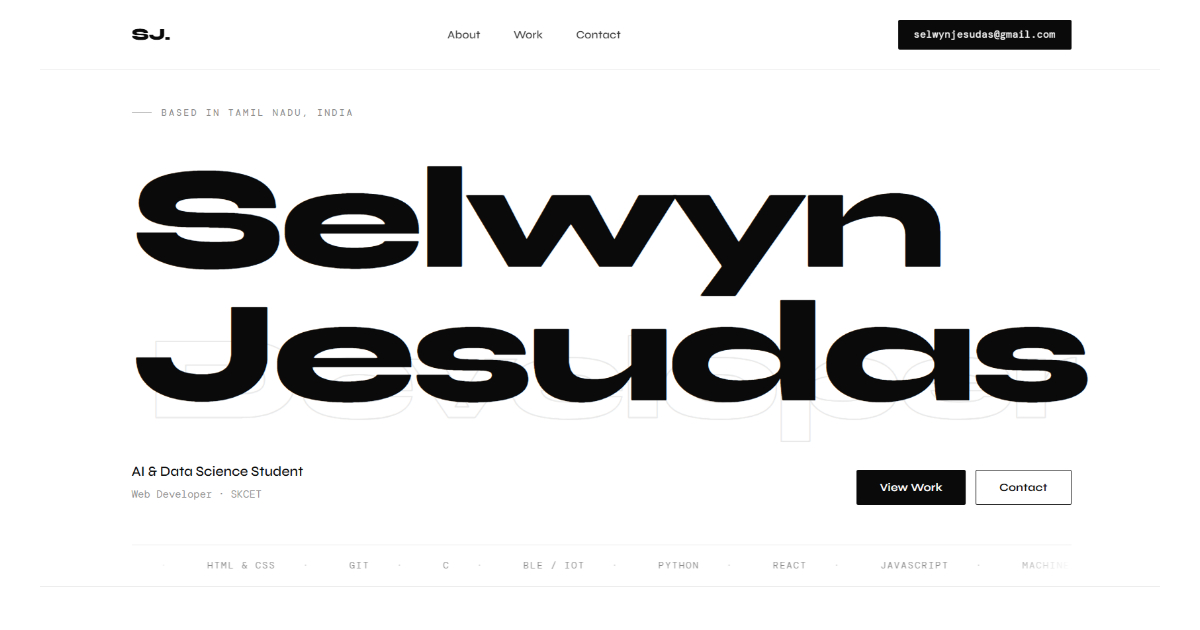
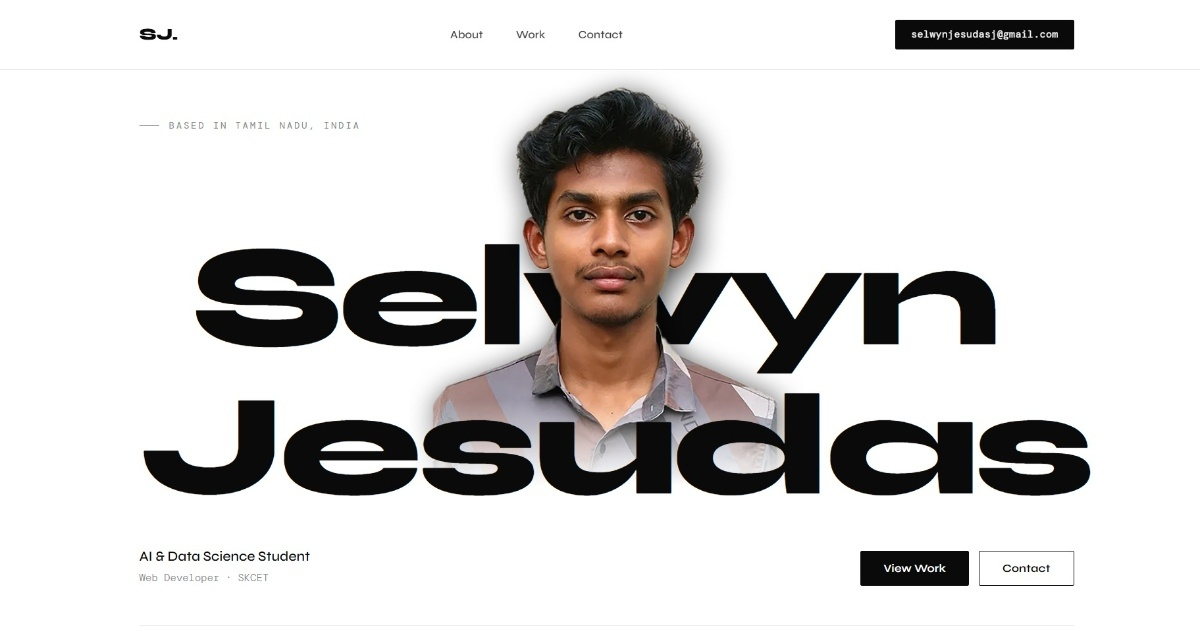
SEO changes

diff --git a/src/config/metadata.js b/src/config/metadata.js
@@ -6,59 +6,59 @@ const TWITTER_HANDLE = '@ItzSelwyn'
 
 export const METADATA = {
   home: {
-    title: 'Selwyn Jesudas — Full-Stack Developer & AI Student',
+    title: 'Selwyn Jesudas | AI & Full Stack Developer',
     description: 'AI & Data Science student at SKCET, Tamil Nadu. Building intelligent web applications, ML systems, and IoT solutions. View my projects: InsightEd, RAPID-100, MetroMind.',
     keywords: 'Selwyn Jesudas, Portfolio, Developer, Student, AI, Data Science, React, Python, SKCET, Tamil Nadu, Web Development',
     canonical: `${BASE_URL}`,
     ogUrl: `${BASE_URL}`,
-    ogTitle: 'Selwyn Jesudas — Full-Stack Developer & AI Student',
+    ogTitle: 'Selwyn Jesudas — AI & Full Stack Developer',
     ogDescription: 'AI & Data Science student at SKCET building intelligent web applications and ML systems.',
     ogImage: `${BASE_URL}/og-image.jpg`,
-    twitterTitle: 'Selwyn Jesudas — Full-Stack Developer & AI Student',
+    twitterTitle: 'Selwyn Jesudas — AI & Full Stack Developer',
     twitterDescription: 'AI & Data Science student at SKCET building intelligent web applications and ML systems.',
   },
 
   insighted: {
-    title: 'InsightEd — BLE Attendance System | Selwyn Jesudas',
+    title: 'InsightEd | Selwyn Jesudas',
     description: 'InsightEd: A Bluetooth Low Energy attendance system that automates classroom roll-call using ESP32 microcontrollers. Built with Kotlin, Arduino C++, and Firebase. SIH 2025 project.',
     keywords: 'InsightEd, BLE, Bluetooth Low Energy, ESP32, Kotlin, Firebase, Attendance System, IoT, SKCET',
     canonical: `${BASE_URL}/insighted`,
     ogUrl: `${BASE_URL}/insighted`,
     ogTitle: 'InsightEd — BLE Attendance System',
     ogDescription: 'Automated classroom attendance using Bluetooth Low Energy, ESP32, and student smartphones. 95%+ accuracy, no app install required.',
-    ogImage: `${BASE_URL}/og-image-insighted.jpg`,
+    ogImage: `${BASE_URL}/og-image.jpg`,
     twitterTitle: 'InsightEd — Smart Classroom Attendance',
     twitterDescription: 'BLE-powered attendance system with ESP32 & Firebase. SIH 2025 project.',
   },
 
   rapid100: {
-    title: 'RAPID-100 — AI Emergency Call Triage | Selwyn Jesudas',
+    title: 'RAPID-100 | Selwyn Jesudas',
     description: 'RAPID-100: An AI-powered emergency call triage system using Google Gemini API. Real-time transcription, incident classification, and dispatcher dashboards. Built with Python, FastAPI, and Twilio.',
     keywords: 'RAPID-100, Emergency Services, AI Triage, Gemini API, FastAPI, Speech-to-Text, Emergency Response, NLP',
     canonical: `${BASE_URL}/rapid-100`,
     ogUrl: `${BASE_URL}/rapid-100`,
     ogTitle: 'RAPID-100 — AI Emergency Call Triage',
     ogDescription: 'Real-time emergency call transcription and AI classification for dispatchers. Live summaries in <3s. Powered by Gemini API.',
-    ogImage: `${BASE_URL}/og-image-rapid100.jpg`,
+    ogImage: `${BASE_URL}/og-image.jpg`,
     twitterTitle: 'RAPID-100 — AI Emergency Triage',
     twitterDescription: 'Real-time call transcription & AI-powered incident classification for emergency dispatchers.',
   },
 
   metromind: {
-    title: 'MetroMind — Smart City Traffic Simulation | Selwyn Jesudas',
+    title: 'MetroMind | Selwyn Jesudas',
     description: 'MetroMind: A full-stack smart-city dashboard with live traffic simulation on real OpenStreetMap road networks. Built with React, FastAPI, Dijkstra routing, and Docker. Watch vehicles navigate and reroute in real-time.',
     keywords: 'MetroMind, Smart City, Traffic Simulation, OpenStreetMap, Dijkstra, Docker, FastAPI, React, Leaflet, OSMnx',
     canonical: `${BASE_URL}/metromind`,
     ogUrl: `${BASE_URL}/metromind`,
     ogTitle: 'MetroMind — Smart City Traffic Simulation',
     ogDescription: 'Interactive traffic simulation on real city road networks. Block roads, spawn vehicles, watch AI rerouting respond to congestion.',
-    ogImage: `${BASE_URL}/og-image-metromind.jpg`,
+    ogImage: `${BASE_URL}/og-image.jpg`,
     twitterTitle: 'MetroMind — Live Traffic Simulation',
     twitterDescription: 'Smart city dashboard with real OSM data & AI-powered traffic routing.',
   },
 
   notfound: {
-    title: '404 — Page Not Found | Selwyn Jesudas',
+    title: '404 | Selwyn Jesudas',
     description: "This page doesn't exist. Return to Selwyn Jesudas's portfolio to view projects and get in touch.",
     keywords: 'Page Not Found',
     canonical: `${BASE_URL}/404`,

diff --git a/index.html b/index.html
@@ -5,11 +5,10 @@
     <meta name="viewport" content="width=device-width, initial-scale=1.0" />
 
     <!-- Primary SEO - FALLBACK ONLY (React will update these dynamically) -->
-    <title>Selwyn Jesudas</title>
-    <meta name="description" content="Personal portfolio of Selwyn Jesudas — AI & Data Science student at SKCET, Web Developer." />
-    <meta name="keywords" content="Selwyn Jesudas, Portfolio, Developer, Student, AI, Data Science" />
+    <title>Selwyn Jesudas | AI & Full Stack Developer</title>
+    <meta name="description" content="Personal portfolio of Selwyn Jesudas — AI & Data Science student at SKCET, Full Stack Developer." />
+    <meta name="keywords" content="Selwyn Jesudas, Portfolio, Developer, Student, AI, Data Science, Full Stack" />
     <meta name="author" content="Selwyn Jesudas" />
-    <link rel="canonical" href="https://selwynjesudas.com" />
 
     <!-- Favicons: SVG prioritized, with smart fallbacks for older browsers -->
     <!-- Primary: SVG favicon (sharp on all devices, smallest file size) -->
@@ -20,28 +19,6 @@
     <link rel="icon" href="/favicon.ico" sizes="any" type="image/x-icon">
     <!-- Apple/iOS: Home screen icon (no sizes needed, iOS handles this) -->
     <link rel="apple-touch-icon" href="/apple-touch-icon.png">
-
-    <!-- Open Graph (Facebook, LinkedIn, WhatsApp previews) - FALLBACK -->
-    <meta property="og:type" content="website" />
-    <meta property="og:url" content="https://selwynjesudas.com" />
-    <meta property="og:title" content="Selwyn Jesudas" />
-    <meta property="og:description" content="Personal portfolio of Selwyn Jesudas — AI & Data Science student at SKCET, Web Developer." />
-    <meta property="og:image" content="/og-image.jpg" />
-    <meta property="og:image:width" content="1200" />
-    <meta property="og:image:height" content="630" />
-    <meta property="og:locale" content="en_IN" />
-    <meta property="og:site_name" content="Selwyn Jesudas" />
-
-    <!-- Twitter Card -->
-    <meta name="twitter:card" content="summary_large_image" />
-    <meta name="twitter:domain" content="selwynjesudas.com" />
-    <meta name="twitter:url" content="https://selwynjesudas.com" />
-    <meta name="twitter:title" content="Selwyn Jesudas" />
-    <meta name="twitter:description" content="Personal portfolio of Selwyn Jesudas — AI & Data Science student at SKCET, Web Developer." />
-    <meta name="twitter:image" content="/og-image.jpg" />
-
-    <!-- Schema.org - Dynamically generated by React -->
-    <!-- Base Website & Person schemas will be added by React -->
 
     <!-- Fonts -->
     <link rel="preconnect" href="https://fonts.googleapis.com" />

diff --git a/src/utils/schemaGenerator.js b/src/utils/schemaGenerator.js
@@ -19,7 +19,7 @@ export const generatePersonSchema = () => ({
   '@type': 'Person',
   name: 'Selwyn Jesudas',
   url: BASE_URL,
-  image: `${BASE_URL}/images/selwyn.jpg`,
+  image: `${BASE_URL}/selwyn.webp`,
   description: 'AI & Data Science student at SKCET, Full-stack Developer',
   sameAs: [
     'https://www.linkedin.com/in/selwyn-jesudas/',
@@ -27,8 +27,8 @@ export const generatePersonSchema = () => ({
     'https://www.instagram.com/itz_selwyn/',
     'https://www.facebook.com/profile.php?id=61576403366342',
   ],
-  jobTitle: 'Student / Developer',
-  worksFor: {
+  jobTitle: 'AI & Full Stack Developer',
+  alumniOf: {
     '@type': 'Organization',
     name: 'Sri Krishna College of Engineering and Technology',
   },
@@ -51,7 +51,6 @@ export const generateProjectSchema = (project) => ({
     priceCurrency: 'USD',
   },
   image: `${BASE_URL}${project.image}`,
-  datePublished: project.datePublished,
   keywords: project.keywords,
   featureList: project.features,
 })
@@ -62,8 +61,7 @@ export const generateInsightEdSchema = () =>
     description:
       'A Bluetooth Low Energy attendance system that automates classroom roll-call using ESP32 microcontrollers and students smartphones.',
     path: '/insighted',
-    image: '/og-image-insighted.jpg',
-    datePublished: '2025-01-15',
+    image: '/og-image.jpg',
     keywords: 'BLE, ESP32, Kotlin, Firebase, Attendance, IoT',
     features: [
       'Bluetooth Low Energy scanning',
@@ -80,8 +78,7 @@ export const generateRapid100Schema = () =>
     description:
       'An AI-powered emergency call triage system that transcribes calls in real time, classifies incidents by type and severity, and generates structured summaries.',
     path: '/rapid-100',
-    image: '/og-image-rapid100.jpg',
-    datePublished: '2025-02-10',
+    image: '/og-image.jpg',
     keywords: 'Emergency Services, AI, Gemini API, FastAPI, Speech-to-Text',
     features: [
       'Real-time speech-to-text transcription',
@@ -98,8 +95,7 @@ export const generateMetroMindSchema = () =>
     description:
       'A full-stack smart-city dashboard combining live map visualization with real-time traffic simulation on actual OpenStreetMap road networks.',
     path: '/metromind',
-    image: '/og-image-metromind.jpg',
-    datePublished: '2025-03-05',
+    image: '/og-image.jpg',
     keywords: 'Smart City, Traffic Simulation, Dijkstra, OpenStreetMap, Docker',
     features: [
       'Real OpenStreetMap road data',

diff --git a/src/components/Hero.css b/src/components/Hero.css
@@ -12,6 +12,11 @@
   margin-bottom: 7rem;
 }
 
+.hero__ghost-title{
+  display: none;
+}
+
+
 /* ============================================
    STAGE — layered depth effect
    ============================================ */
@@ -317,6 +322,22 @@
   margin-left: 0rem;
   }
 
+  .hero__ghost-title{
+    display: block;
+    position: absolute;
+    bottom: -0.15em;
+    right: 0.9em;
+    font-family: var(--font-display);
+    font-weight: 800;
+    font-size: clamp(2.7rem, 9vw, 4.8rem);
+    letter-spacing: -0.04em;
+    line-height: 1;
+    color: transparent;
+    -webkit-text-stroke: 1px var(--rule);
+    pointer-events: none;
+    z-index: -1;
+    white-space: nowrap;
+  }
 }
 
 @media (max-width: 480px) {
@@ -339,4 +360,10 @@
   padding-bottom: 0.05em;
   margin-left: 0rem;
 }
+
+  .hero__ghost-title{
+    bottom: -0.15em;
+    right: -0.02em;
+  }
+
 }

diff --git a/src/components/Hero.jsx b/src/components/Hero.jsx
@@ -37,8 +37,9 @@ export default function Hero() {
           {/* Row 2 — "Jesudas" — z-index below photo */}
           <div className="hero__row hero__row--front">
             <h1 className="hero__name hero__name--line2">Jesudas</h1>
+            <p className="hero__ghost-title" aria-hidden="true">Developer</p>
           </div>
-
+          
         </div>
 
         {/* Bottom row — subtitle + buttons */}
